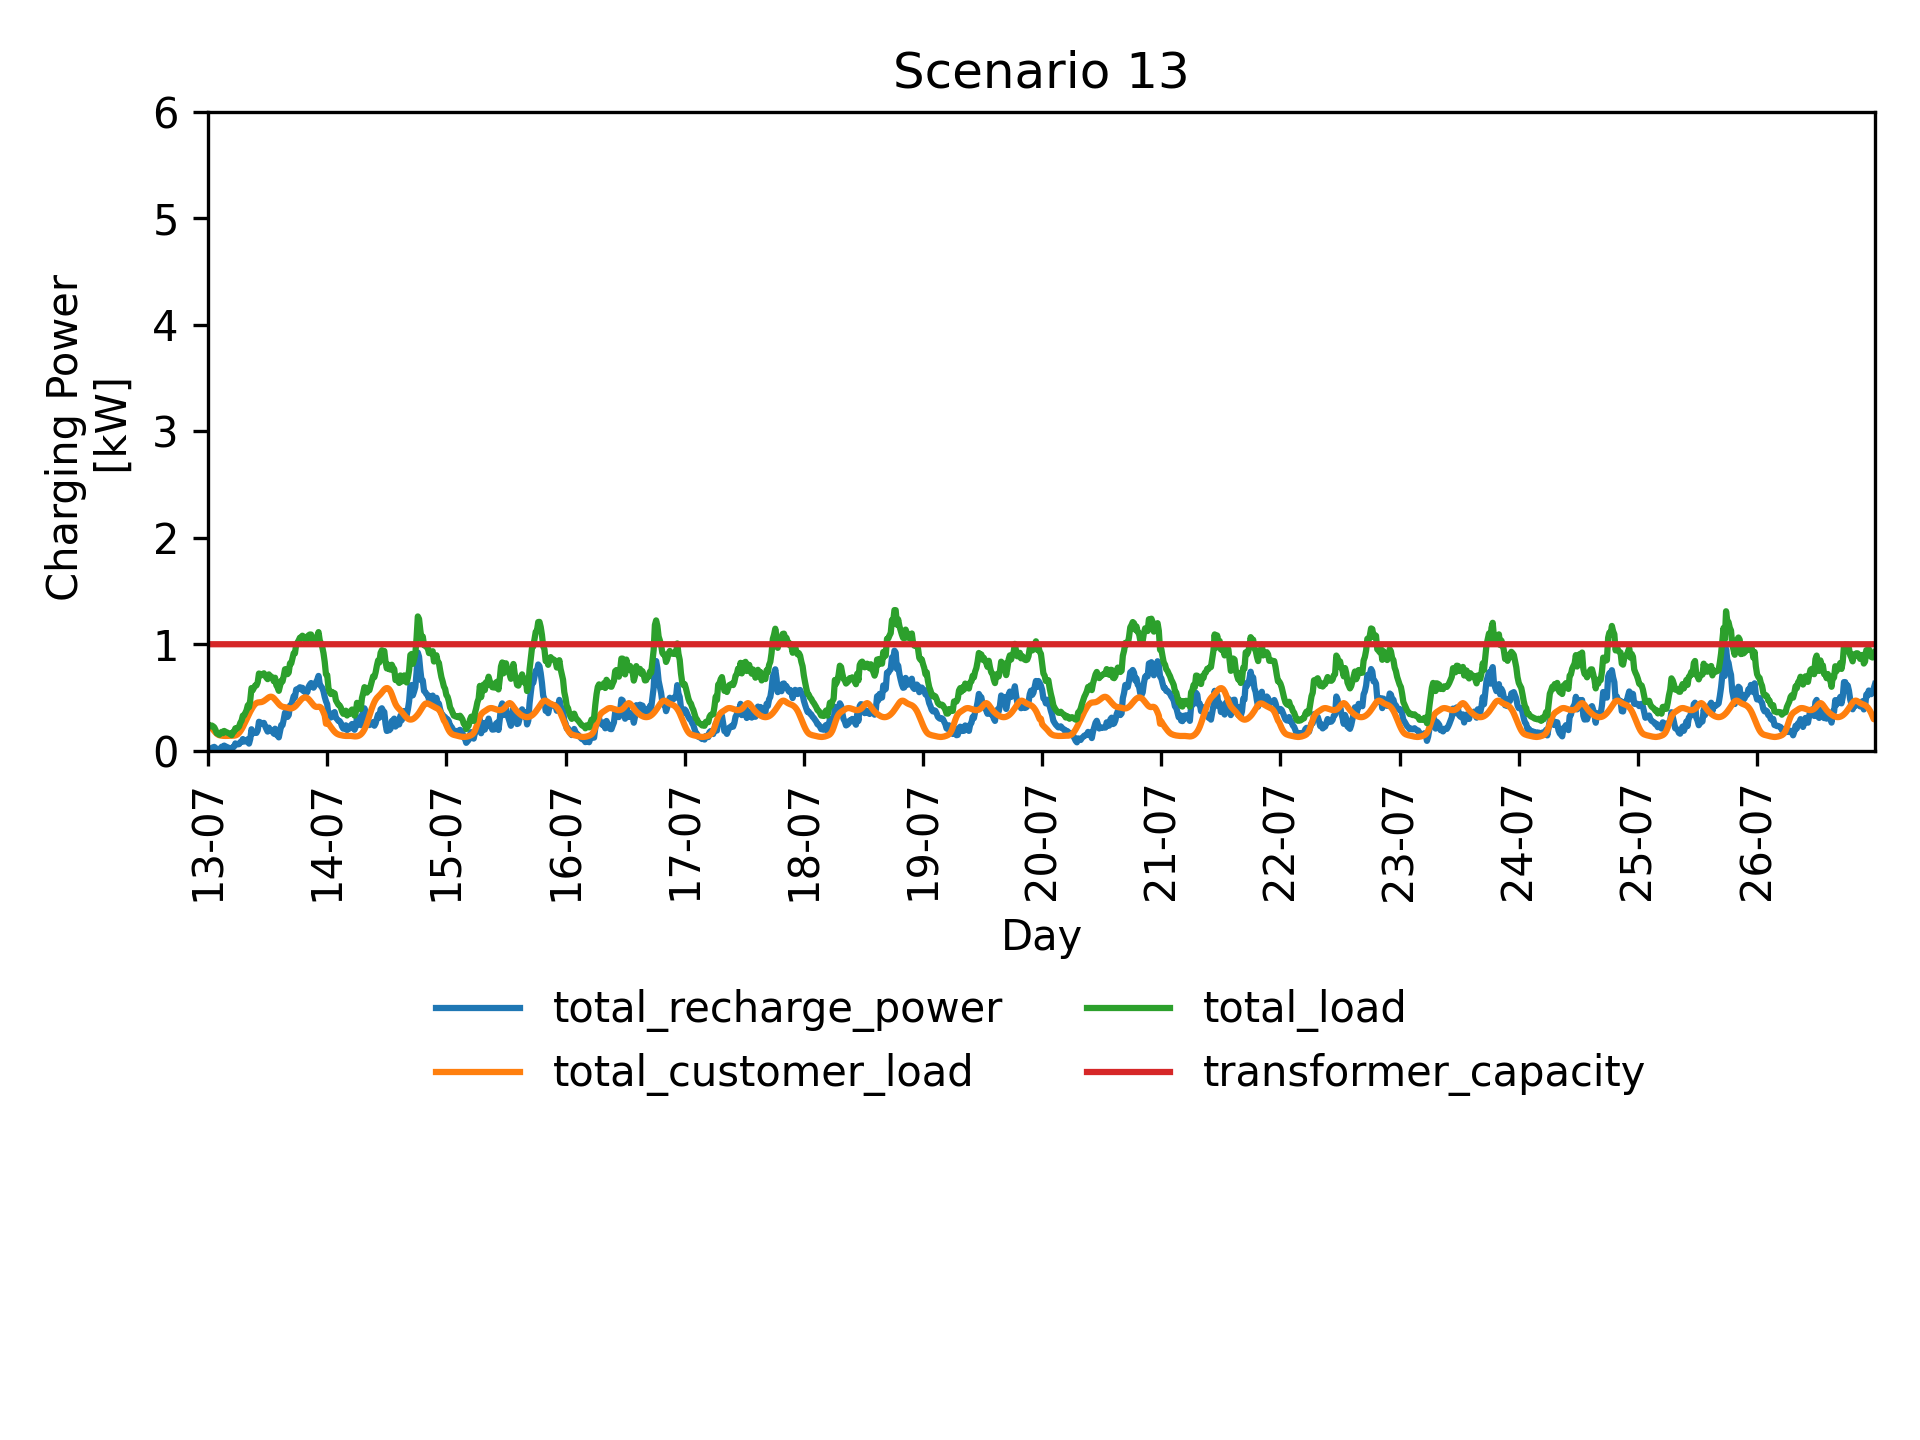
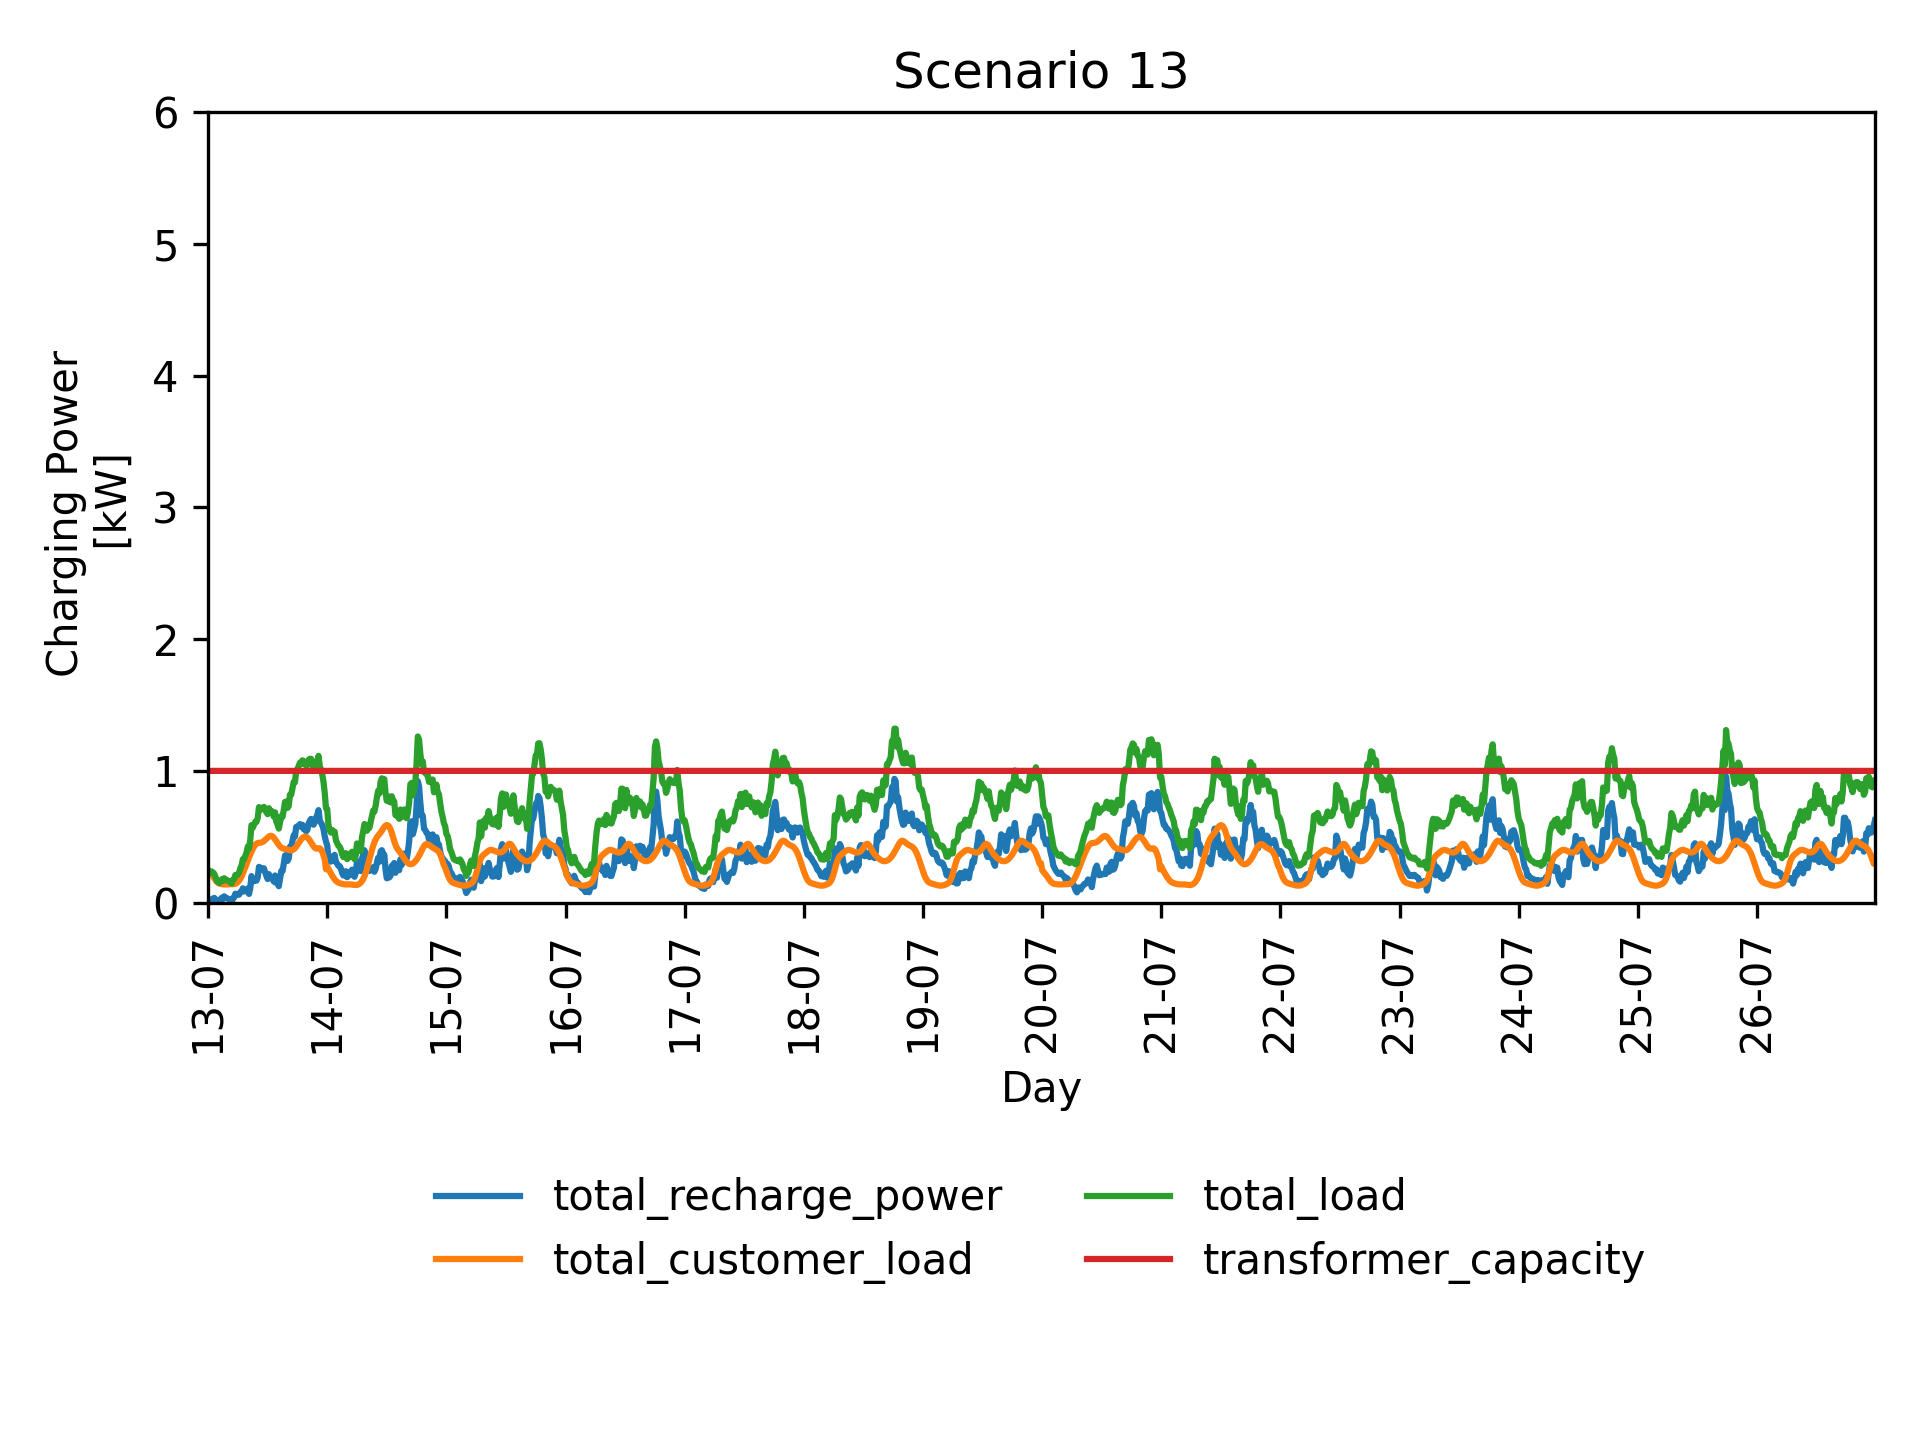
changed plots

diff --git a/data_analytics/analytics_results.py b/data_analytics/analytics_results.py
@@ -326,7 +326,7 @@ def print_scenario_one_row():
         plt.title(title)
         plt.ylabel('Charging Power \n [kW]')
 
-        plt.legend(loc='lower center', ncol=2, bbox_to_anchor=(0.5, -0.6), frameon=False)
+        plt.legend(loc='upper center', ncol=2, bbox_to_anchor=(0.5, -0.3), frameon=False)
         plt.ylim(0, 6)
         plt.xlim(df.index.min(), df.index.max())
         # ax.set_xlim(0, 14)
@@ -336,7 +336,7 @@ def print_scenario_one_row():
         # plt.legend()
         plt.tight_layout()
         fig_name = title + '_weekly_profile'
-        plt.savefig(fig_name, dpi=300)
+        # plt.savefig(fig_name, dpi=300)
         plt.show()
 
 
